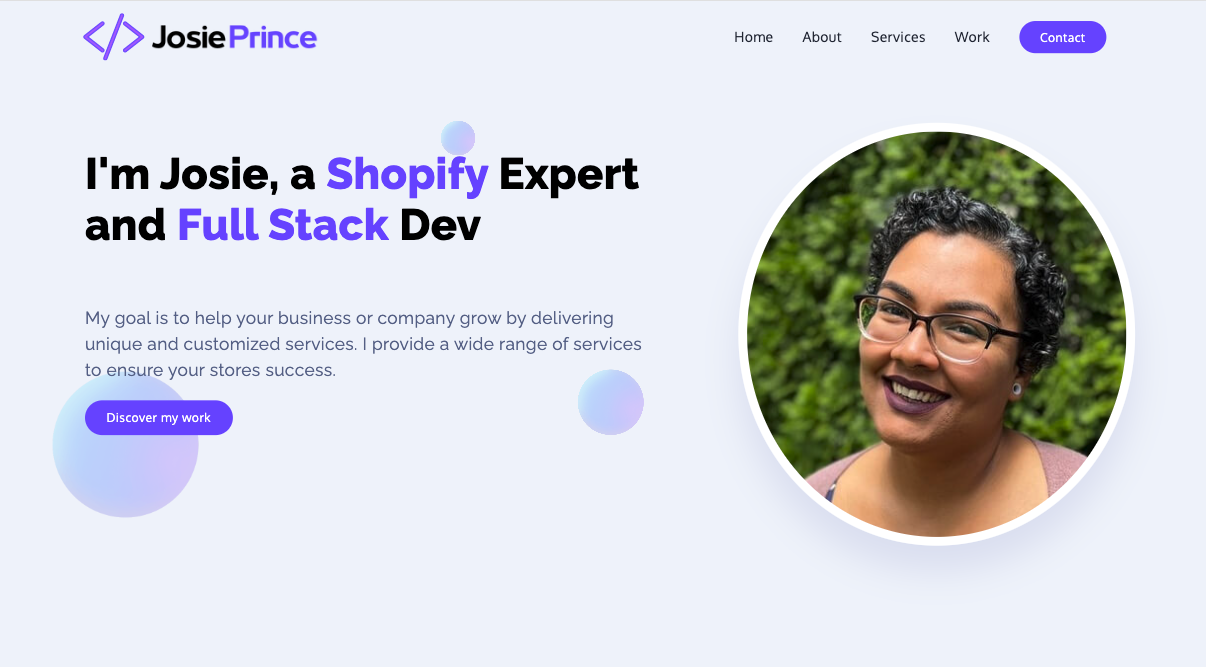
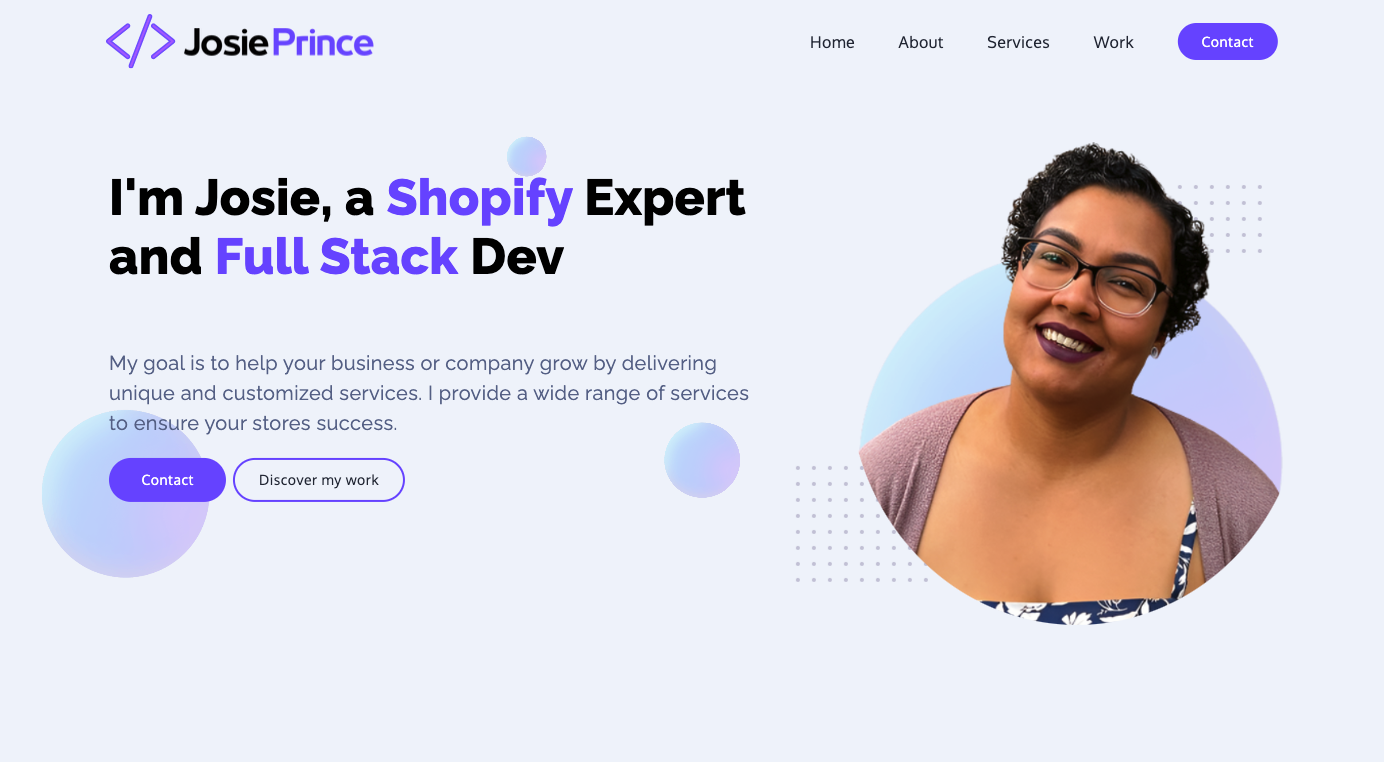
removed unwanted imgs and changed thumbnail photo.

diff --git a/assets/css/stylesheet.css b/assets/css/stylesheet.css
@@ -183,7 +183,7 @@ textarea {
 
 .headshot-img {
   background-color: transparent;
-  background: url("../imgs/transparent-bg-designify\ \(5\).png") no-repeat;
+  background: url("../imgs/headshot-circle-bg.png") no-repeat;
   height: 80%;
   width: 35%;
   margin: auto;
